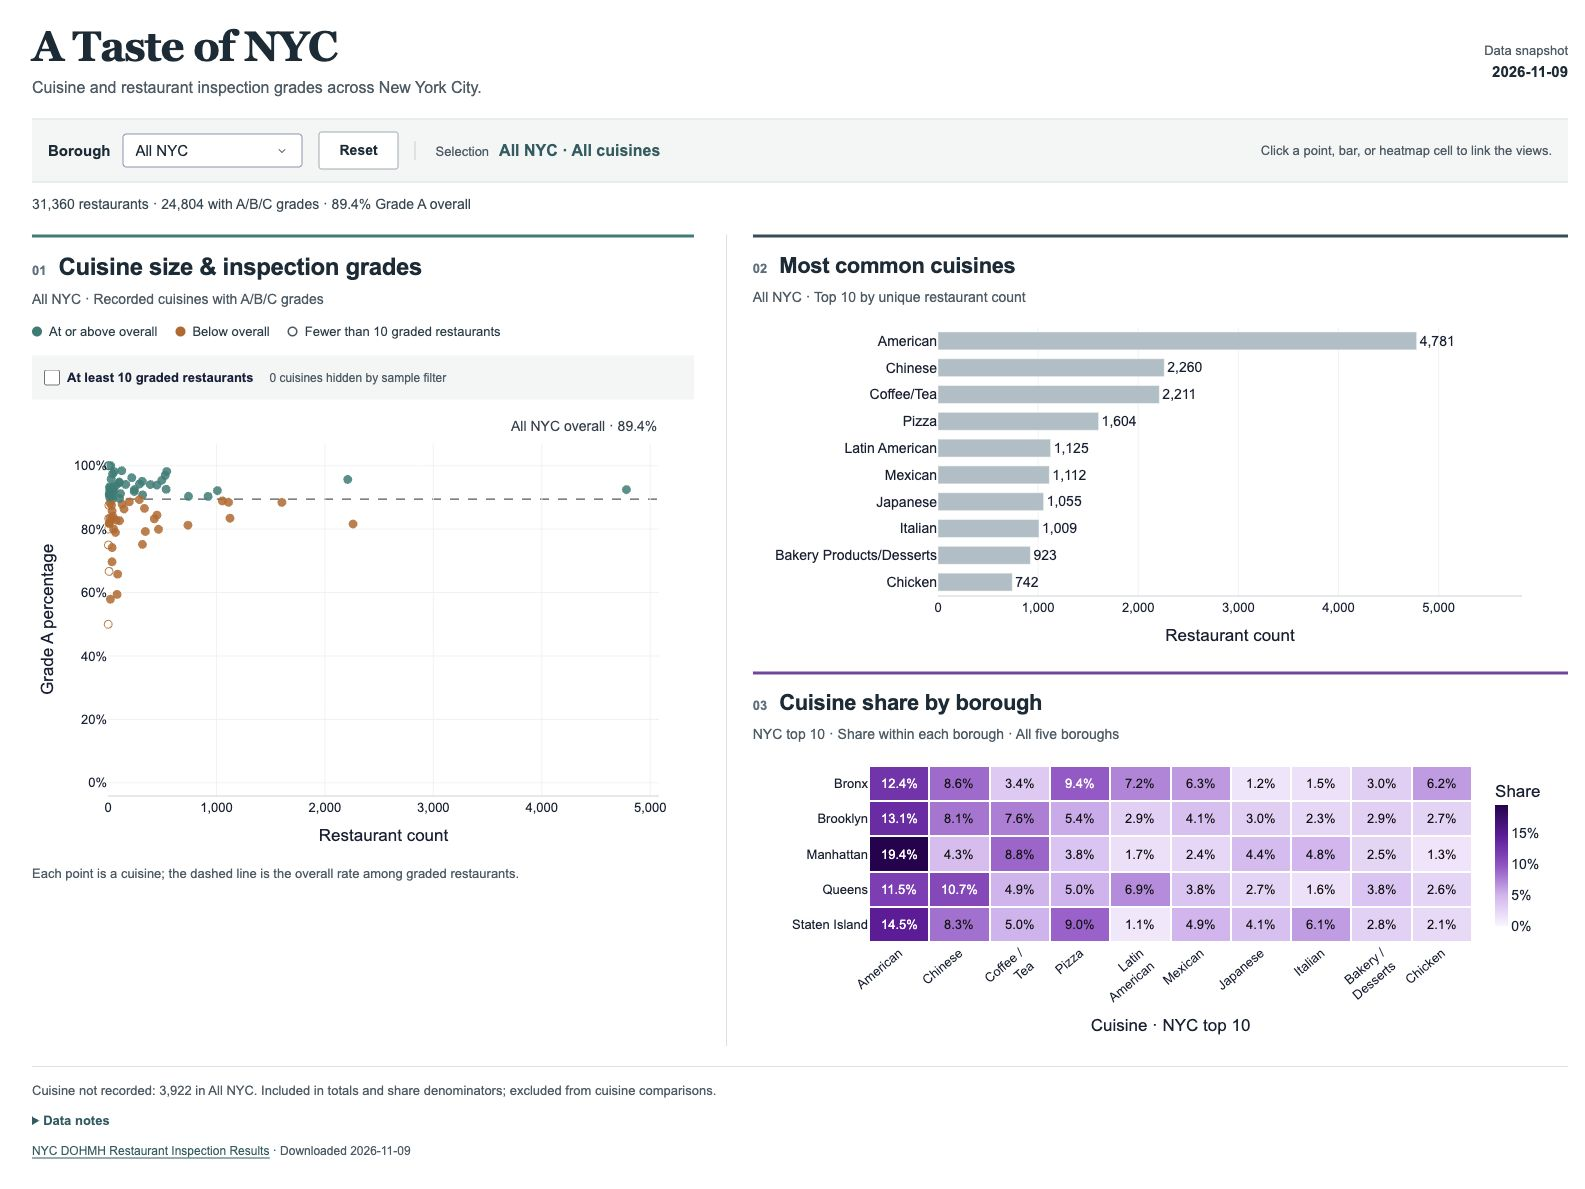
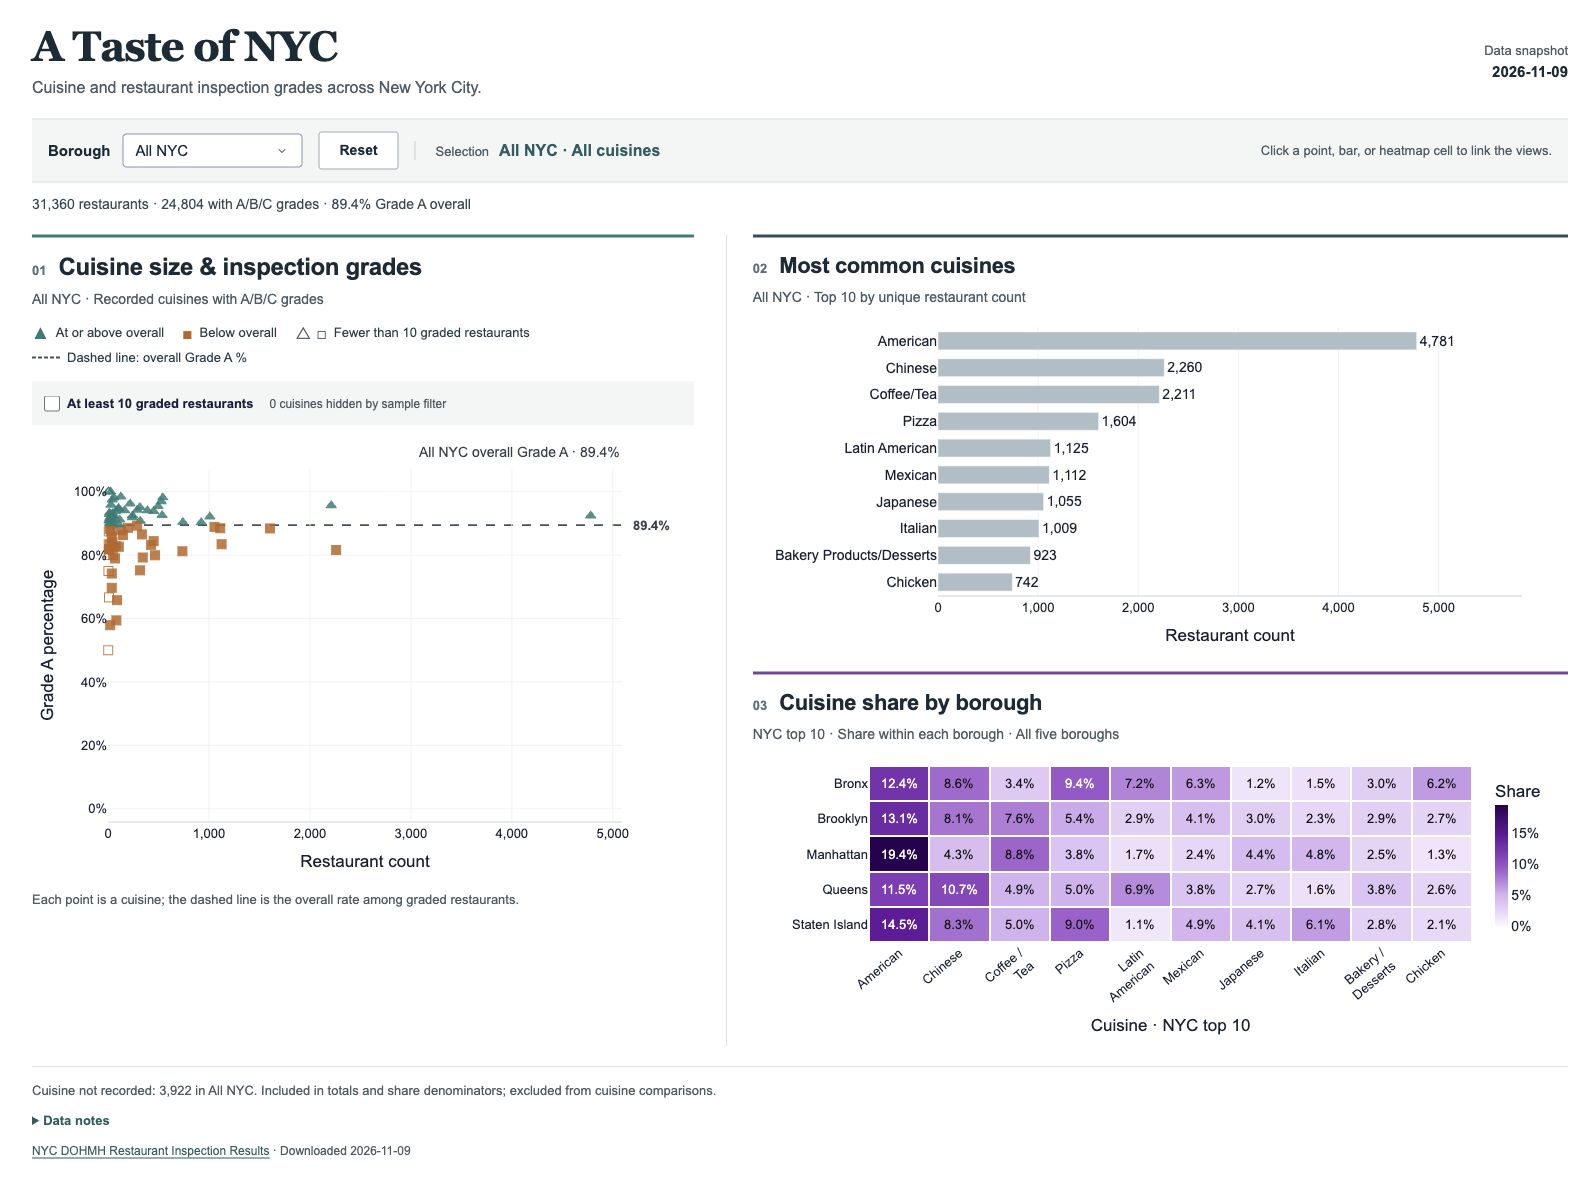
Distinguish scatter groups with shapes and label benchmark

diff --git a/a-taste-of-nyc/assets/style.css b/a-taste-of-nyc/assets/style.css
@@ -30,10 +30,11 @@ h2 { margin: 0; font-size: 22px; line-height: 1.25; font-weight: 700; letter-spa
 .chart-subtitle { font-size: 14px; color: var(--muted); font-weight: 500; margin: 8px 0 12px; line-height: 1.45; }
 .plot-key { display: flex; flex-wrap: wrap; gap: 9px 18px; margin: 14px 0 0; font-size: 13px; color: #263e49; }
 .plot-key span { display: inline-flex; align-items: center; gap: 7px; }
-.key-dot { display: inline-block; width: 10px; height: 10px; border-radius: 50%; flex-shrink: 0; }
-.key-dot.above { background: #237d75; }
-.key-dot.below { background: #bc641f; }
-.key-dot.hollow { background: white; border: 1.5px solid #4a5963; }
+.key-mark { display: inline-block; font-style: normal; font-size: 17px; line-height: 1; flex-shrink: 0; }
+.key-mark.above { color: #237d75; }
+.key-mark.below { color: #bc641f; }
+.key-mark.hollow { color: #4a5963; }
+.key-line { display: inline-block; width: 28px; border-top: 2px dashed #45515c; flex-shrink: 0; }
 .sample-controls { display: flex; flex-wrap: wrap; align-items: center; gap: 7px 16px; margin: 16px 0 8px; padding: 10px 12px; background: #f3f6f6; font-size: 13px; color: #263e49; }
 .sample-controls label { display: inline-flex; align-items: center; gap: 7px; font-weight: 600; cursor: pointer; }
 .sample-controls input { accent-color: var(--accent); width: 16px; height: 16px; margin: 0; }

diff --git a/a-taste-of-nyc/app.py b/a-taste-of-nyc/app.py
@@ -76,6 +76,8 @@ def scatter_figure(summary, selected, scope="All NYC", min_graded=1):
         if rows.empty:
             continue
         colors = [ABOVE if value >= benchmark else BELOW for value in rows.grade_a_pct]
+        symbols = [("triangle-up" if value >= benchmark else "square") + ("-open" if n < 10 else "")
+                   for value, n in zip(rows.grade_a_pct, rows.rated)]
         relation = ["At or above overall" if value >= benchmark else "Below overall" for value in rows.grade_a_pct]
         custom = [[c, int(n), int(r), int(a), rel, scope] for c, n, r, a, rel in
                   zip(rows.cuisine, rows.restaurants, rows.rated, rows.grade_a, relation)]
@@ -85,25 +87,28 @@ def scatter_figure(summary, selected, scope="All NYC", min_graded=1):
             text=[escape(c) for c in rows.cuisine] if active else None,
             textposition="bottom center", textfont={"color": INK, "size": 15}, cliponaxis=False,
             customdata=custom,
-            marker={"size": 12 if active else 8, "color": colors,
+            marker={"size": 14 if active else 9, "color": colors,
                     "opacity": 1 if active else 0.85,
-                    "symbol": ["circle-open" if n < 10 else "circle" for n in rows.rated],
+                    "symbol": symbols,
                     "line": {"width": 2.5 if active else 1, "color": "#111111" if active else colors}},
             hovertemplate="<b>%{customdata[0]}</b><br>Borough: %{customdata[5]}<br>Restaurants: %{customdata[1]:,}<br>Rated (A/B/C): %{customdata[2]:,}<br>Grade A restaurants: %{customdata[3]:,}<br>Grade A: %{y:.1%}<br>%{customdata[4]}<extra></extra>"))
         if active and int(rows.iloc[0].rated) < 10:
-            # Preserve the colored hollow small-sample mark and add a separate black ring.
+            # Preserve the colored hollow small-sample mark and add a matching black outline.
             fig.add_trace(go.Scatter(x=rows.restaurants.tolist(), y=rows.grade_a_pct.tolist(),
                                     mode="markers", customdata=custom,
                                     hovertemplate="<b>%{customdata[0]}</b><br>Borough: %{customdata[5]}<br>Restaurants: %{customdata[1]:,}<br>Rated (A/B/C): %{customdata[2]:,}<br>Grade A restaurants: %{customdata[3]:,}<br>Grade A: %{y:.1%}<extra></extra>", marker={"size": 17,
-                                    "symbol": "circle-open", "color": "#111111", "line": {"width": 1.5}}))
-    fig.add_hline(y=benchmark, line={"color": "#52565d", "width": 1.3, "dash": "dash"}, layer="below")
+                                    "symbol": symbols, "color": "#111111", "line": {"width": 1.5}}))
+    fig.add_hline(y=benchmark, line={"color": "#45515c", "width": 1.8, "dash": "dash"}, layer="below")
     # Keep the benchmark label outside the data region so it cannot cover a point.
-    fig.add_annotation(x=1, xref="paper", y=1.02, yref="paper", text=f"{escape(scope)} overall · {benchmark:.1%}",
+    fig.add_annotation(x=1, xref="paper", y=1.02, yref="paper", text=f"{escape(scope)} overall Grade A · {benchmark:.1%}",
                        showarrow=False, xanchor="right", yanchor="bottom",
                        font={"size": 14, "color": "#33414c"})
+    fig.add_annotation(x=1.015, xref="paper", y=benchmark, yref="y",
+                       text=f"<b>{benchmark:.1%}</b>", showarrow=False, xanchor="left", yanchor="middle",
+                       font={"size": 13, "color": "#33414c"}, bgcolor="white", borderpad=2)
     fig.update_xaxes(title="Restaurant count", rangemode="tozero", tickformat=",d", type="linear")
     fig.update_yaxes(title="Grade A percentage", range=[-0.04, 1.07], tickformat=".0%", dtick=0.2)
-    fig.update_layout(margin={"l": 76, "r": 28, "t": 36, "b": 62})
+    fig.update_layout(margin={"l": 76, "r": 65, "t": 36, "b": 62})
     return fig
 
 
@@ -244,9 +249,10 @@ def create_app(frame=None, metadata=None):
                 html.Div([html.Span("01", className="rq"), html.H2("Cuisine size & inspection grades")], className="chart-title"),
                 html.P(id="scatter-scope", className="chart-subtitle"),
                 html.Div([
-                    html.Span([html.I(className="key-dot above"), "At or above overall"]),
-                    html.Span([html.I(className="key-dot below"), "Below overall"]),
-                    html.Span([html.I(className="key-dot hollow"), "Fewer than 10 graded restaurants"]),
+                    html.Span([html.I("▲", className="key-mark above"), "At or above overall"]),
+                    html.Span([html.I("■", className="key-mark below"), "Below overall"]),
+                    html.Span([html.I("△ □", className="key-mark hollow"), "Fewer than 10 graded restaurants"]),
+                    html.Span([html.I(className="key-line"), "Dashed line: overall Grade A %"]),
                 ], className="plot-key"),
                 html.Div([
                     dcc.Checklist(id="sample-filter", options=[{"label": "At least 10 graded restaurants", "value": "ten"}], value=[]),

diff --git a/a-taste-of-nyc/test_dashboard.py b/a-taste-of-nyc/test_dashboard.py
@@ -122,8 +122,10 @@ class RealSnapshotTests(unittest.TestCase):
             for trace in fig.data:
                 if trace.customdata is None:
                     continue
-                for rate, color in zip(trace.y, trace.marker.color):
+                for rate, color, symbol, detail in zip(trace.y, trace.marker.color, trace.marker.symbol, trace.customdata):
                     self.assertEqual(color, ABOVE if rate >= expected else BELOW)
+                    expected_symbol = "triangle-up" if rate >= expected else "square"
+                    self.assertEqual(symbol, expected_symbol + ("-open" if detail[2] < 10 else ""))
             selected = [t for t in fig.data if t.text and "Chinese" in t.text][0]
             self.assertEqual(selected.marker.line.color, "#111111")
         # A deliberately skewed fixture distinguishes a pooled rate from average rates,

diff --git a/a-taste-of-nyc/check_browser.py b/a-taste-of-nyc/check_browser.py
@@ -60,7 +60,7 @@ def run():
         assert page.locator("#bar .js-plotly-plot").evaluate("g => g.data[0].marker.color.includes('#355e6a')")
         assert page.locator("#heatmap .js-plotly-plot").evaluate("g => g.layout.shapes.length === 10")
         expect(page.locator("#missing-note")).to_contain_text("992")
-        expect(page.locator("#scatter")).to_contain_text("Brooklyn overall · 90.2%")
+        expect(page.locator("#scatter")).to_contain_text("Brooklyn overall Grade A · 90.2%")
         selected = page.locator("#scatter .scatterlayer .trace").last.locator(".point").first
         bounds = selected.bounding_box()
         page.mouse.move(bounds["x"] + bounds["width"] / 2, bounds["y"] + bounds["height"] / 2)

diff --git a/a-taste-of-nyc/README.md b/a-taste-of-nyc/README.md
@@ -59,7 +59,7 @@ Grade is attached to the restaurant's latest valid borough/cuisine information. 
 
 **Grade A denominator:** only A/B/C-rated restaurants. Missing grades, N, Z, P and other values never become non-A observations. A zero graded denominator means **no data**, not 0%.
 
-- **Scatter / RQ3:** X = restaurant count (linear); Y = Grade A percentage; one point per recorded cuisine with at least one valid grade. The dashed line is the pooled Grade A rate for the selected scope, including every validly graded restaurant. Teal = at or above that rate; warm orange = below it. The selected cuisine keeps its comparison color, with a black outline and label. Markers are smaller and semi-transparent; fewer than 10 graded restaurants remain hollow. The optional **At least 10 graded restaurants** checkbox is off by default. When enabled, it hides cuisines with fewer than 10 valid grades only from scatter, displays the number hidden, and leaves all totals and the pooled benchmark unchanged. A selected cuisine hidden by this filter is explicitly named beside the checkbox. Zero-rated cuisines are not plotted on a numeric percentage axis. Above/below overall is descriptive, not statistical significance or causation.
+- **Scatter / RQ3:** X = restaurant count (linear); Y = Grade A percentage; one point per recorded cuisine with at least one valid grade. The dashed line is the pooled Grade A rate for the selected scope, including every validly graded restaurant. Teal triangles = at or above that rate; warm orange squares = below it. The dashed line has an explicit legend and its percentage is labeled at the right endpoint. The selected cuisine keeps its comparison color, with a black outline and label. Markers are smaller and semi-transparent; fewer than 10 graded restaurants remain hollow. The optional **At least 10 graded restaurants** checkbox is off by default. When enabled, it hides cuisines with fewer than 10 valid grades only from scatter, displays the number hidden, and leaves all totals and the pooled benchmark unchanged. A selected cuisine hidden by this filter is explicitly named beside the checkbox. Zero-rated cuisines are not plotted on a numeric percentage axis. Above/below overall is descriptive, not statistical significance or causation.
 - **Bar / RQ1:** descending restaurant count, Top 10 recorded cuisines in the selected borough. If any chart selection falls outside that Top 10, append the selected cuisine, disclose this in the title, and show its actual rank among recorded cuisines. Ordinary bars are gray-blue; a dark desaturated teal bar and bold cuisine label identify selection. Counts remain at bar ends; the former arrow and redundant Cuisine axis title are removed. Ties are alphabetical.
 - **Heatmap / RQ2:** five boroughs × citywide Top 10 recorded cuisines. Purple intensity represents borough share, and every cell displays its percentage. Text switches to white on darker cells. All five cells in the selected cuisine column have thin outlines; the active borough–cuisine cell has a heavier outline and the active borough label is bold. A cuisine selected from scatter/bar outside the NYC Top 10 is appended as an eleventh column. All five boroughs and the citywide color scale remain fixed across selections. The nearby subtitle explicitly says “Share within each borough · All five boroughs.” All borough restaurants, including Cuisine not recorded, remain in the denominator. Zero-count combinations remain 0%; zero denominators are no data.
 
@@ -81,10 +81,10 @@ The saved audit is [data/cuisine_missingness_audit.json](data/cuisine_missingnes
 | Scatter / RQ3 | One point | One recorded cuisine with at least one valid A/B/C grade |
 | Scatter / RQ3 | Horizontal position | Unique restaurant count; linear X axis |
 | Scatter / RQ3 | Vertical position | Latest valid Grade A percentage |
-| Scatter / RQ3 | Teal / warm orange | At or above / below the selected scope's pooled Grade A rate |
+| Scatter / RQ3 | Teal triangle / warm orange square | At or above / below the selected scope's pooled Grade A rate |
 | Scatter / RQ3 | Dashed horizontal line | All Grade A restaurants divided by all A/B/C-rated restaurants in scope |
-| Scatter / RQ3 | Hollow circle | Fewer than 10 graded restaurants |
-| Scatter / RQ3 | Black outline + text label | Selected cuisine; its comparison color is preserved |
+| Scatter / RQ3 | Hollow triangle or square | Fewer than 10 graded restaurants |
+| Scatter / RQ3 | Black outline + text label | Selected cuisine; its comparison color and shape are preserved |
 | Bar / RQ1 | Length and sorted position | Unique restaurant count, descending |
 | Bar / RQ1 | Gray-blue / dark teal + bold label | Background comparison / selected cuisine |
 | Heatmap / RQ2 | Row / column | Borough / citywide Top 10 recorded cuisines, plus selected cuisine if needed |
